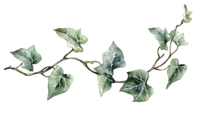
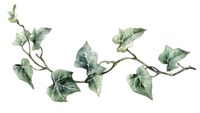
Flip ivy, fill nav height

diff --git a/index.html b/index.html
@@ -656,7 +656,7 @@
 <body>
 
     <nav style="position:relative;">
-        <img src="hero_leaf.png" style="position:absolute; left:0; top:50%; transform:translateY(-50%); height:40px; opacity:0.5; pointer-events:none;">
+        <img src="hero_leaf.png" style="position:absolute; left:0; top:0; height:100%; opacity:0.5; pointer-events:none;">
         <div class="nav-inner">
             <span class="nav-name"><img src="dartmouth.png" alt="Dartmouth" style="height: 18px; vertical-align: -3px; margin-right: 0.4rem;">Freya G.F. Ma</span>
             <ul class="nav-links">
